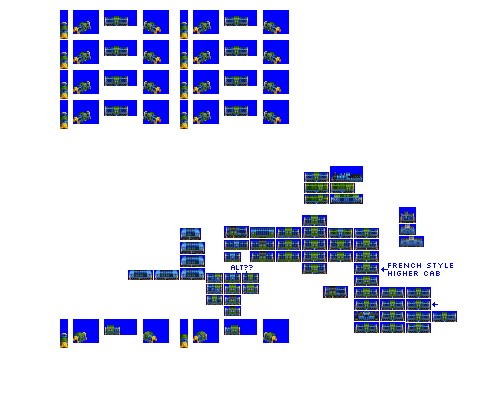
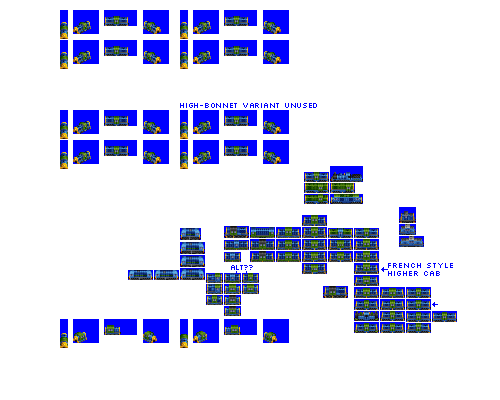
Change: remove high-bonnet variant of Gargouille

Changed region(s): [[0.12, 0.15, 0.63, 0.42]]

diff --git a/src/vehicles/gargouille.py b/src/vehicles/gargouille.py
@@ -16,8 +16,9 @@ def main(roster_id):
         base_track_type_name="NG",
         gen=3,
         intro_year_offset=11,
+        extended_vehicle_life=True,  # extended vehicle life for all this generation of NG eh
         # note that livery names are metadata only and can repeat for different spriterows
-        additional_liveries=["INDUSTRIAL_YELLOW", "BANGER_BLUE", "INDUSTRIAL_YELLOW"], # different body heights, for lolz :P
+        additional_liveries=["INDUSTRIAL_YELLOW"],
         sprites_complete=True,
     )
 
